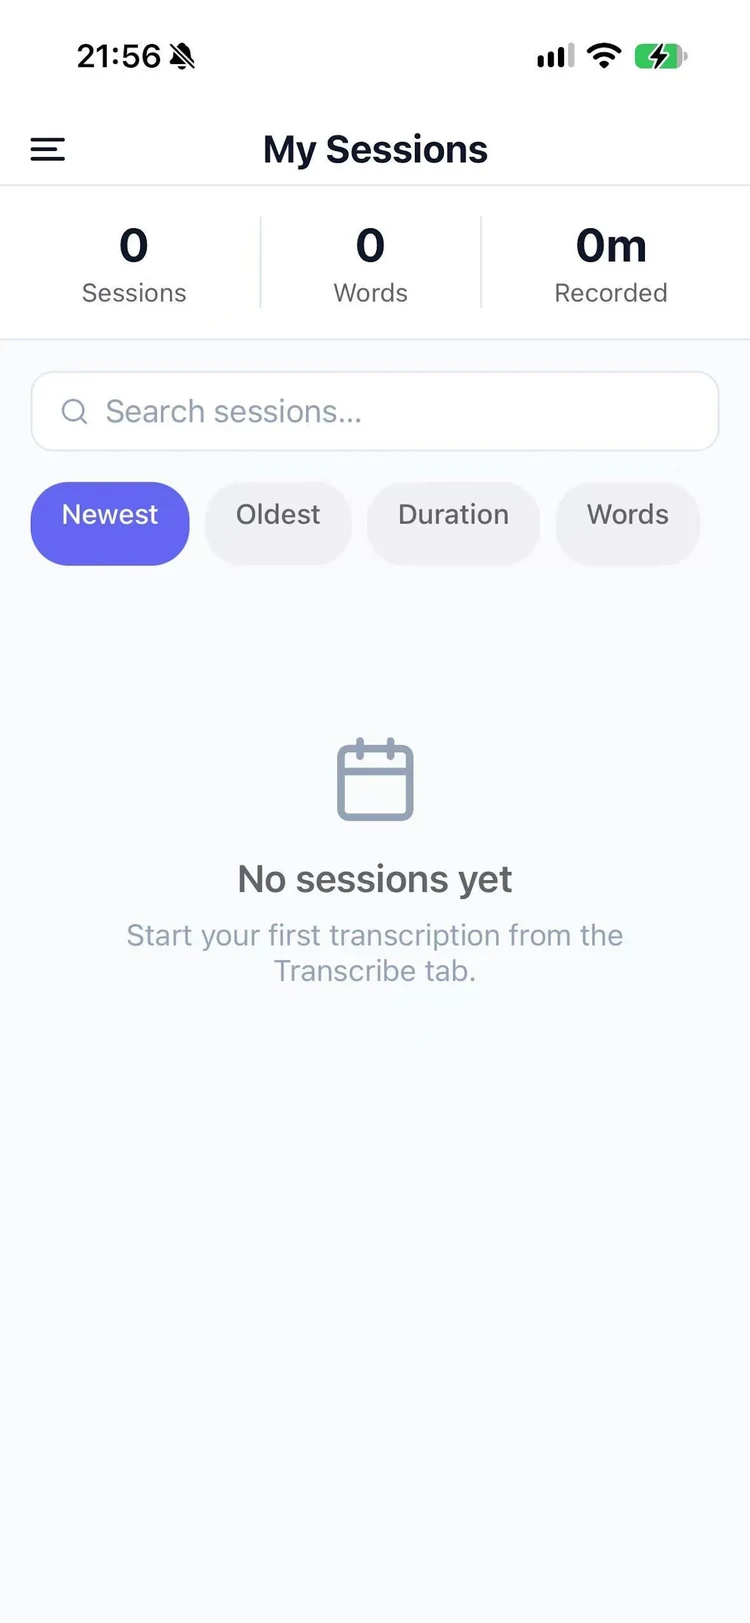
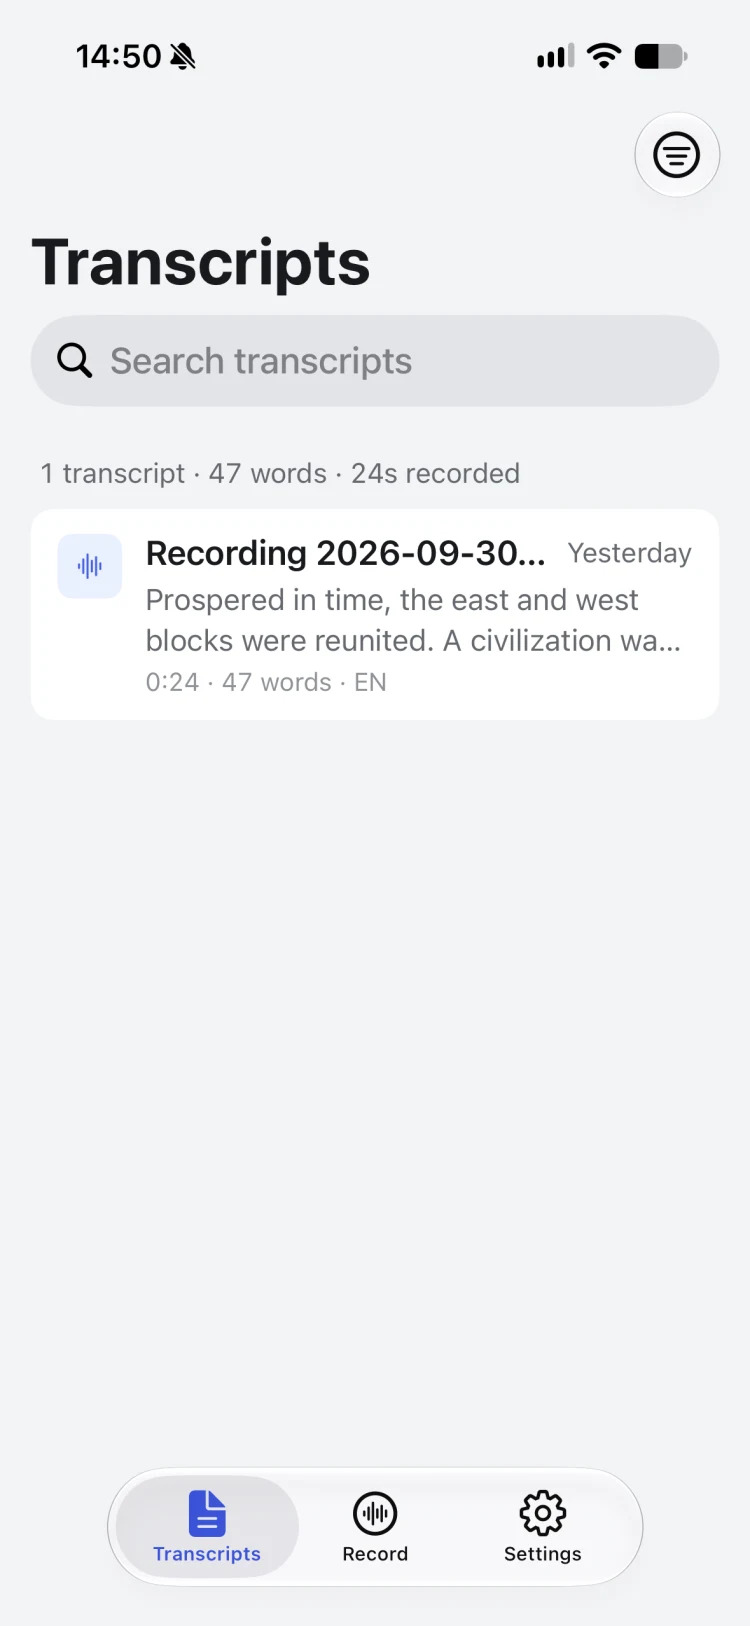
New Mac and iPhone screenshots; sync, live-recording speakers, meetings and models
- Mac: new screenshots for the hero/AI Summary (bilingual summary), Speakers,
  YouTube Summary and Voice Memos; new feature row for Apply Full Speaker
  Diarization on live recordings; new "Fits into your day" cards (meeting
  detection, menu bar & Shortcuts; Settings > Models). Mac images are now 1600 px
  WebP at their natural aspect, with real width/height (no layout shift).
- iPhone: six new device screenshots (Record, Transcripts, Sync with Mac,
  Settings, Plans x2) in two rows; new "Sync with your Mac" feature.
- Content: transcripts now sync through the user's own cloud drive (FAQ and
  Mac-vs-iPhone table were saying they don't); bilingual summaries and GPU speaker
  identification; meeting detection row in the comparison.
- Mac App Store button links to the live listing (id6767550920); iPhone stays
  "Coming soon" until that version is live.

diff --git a/src/content/site.ts b/src/content/site.ts
@@ -12,7 +12,7 @@ export const site = {
   /** Paste the App Store URLs here once they are live, e.g. https://apps.apple.com/app/id1234567890.
    *  Empty string = the button renders as a disabled "Coming soon" button instead of a dead link. */
   links: {
-    macAppStore: '',
+    macAppStore: 'https://apps.apple.com/app/henrik-transcribe/id6767550920',
     iosAppStore: '',
     /** Shown in the footer and FAQ. Leave empty to hide. */
     supportEmail: '',
@@ -41,17 +41,45 @@ export const macFeatures = {
     eyebrow: 'AI Summary & Talk to Transcript',
     title: 'Turn an hour of audio into a page you can act on.',
     body: 'A local AI assistant writes the summary, pulls out key points, action items and chapters, and answers follow-up questions with clickable source timestamps. Choose a length and a style — meeting, podcast, interview or lecture.',
-    points: ['Short, Standard or Detailed summaries', 'Answers cite the exact moment in the recording', 'Runs on your Mac — nothing is sent to the cloud'],
+    points: [
+      'Short, Standard or Detailed summaries',
+      'Summaries in the recording’s own language, with an English translation one click away',
+      'Answers cite the exact moment in the recording',
+      'Runs on your Mac — nothing is sent to the cloud',
+    ],
     image: 'images/mac/summary.webp',
-    alt: 'Henrik Transcribe on Mac showing a transcript, an AI summary panel and a Talk to Transcript chat.',
+    width: 1600,
+    height: 857,
+    alt: 'Henrik Transcribe on Mac: a Swedish transcript with speaker labels, and an AI summary with Swedish and English (translated) tabs.',
   },
   speakers: {
     eyebrow: 'Speaker diarization',
     title: 'Know who said what.',
     body: 'Speakers are detected and labelled automatically, each turn is timestamped, and playback follows along word by word. Rename speakers, fix a line, and export the result.',
-    points: ['Colour-coded speaker turns with per-speaker summary', 'Synchronised audio playback, word or sentence level', 'Export as TXT, DOCX, PDF, Markdown, SRT or VTT'],
+    points: [
+      'Colour-coded speaker turns with per-speaker summary',
+      'Synchronised audio playback, word or sentence level',
+      'Speakers are identified on your Mac’s GPU, with a live progress bar and Cancel',
+      'Export as TXT, DOCX, PDF, Markdown, SRT or VTT',
+    ],
     image: 'images/mac/speakers.webp',
-    alt: 'A transcript with colour-coded speaker turns and a per-speaker summary panel.',
+    width: 1600,
+    height: 861,
+    alt: 'An uploaded file transcribed with colour-coded speaker turns, word-level audio sync and a Speaker Summary panel.',
+  },
+  liveDiarization: {
+    eyebrow: 'New · Speakers for live recordings',
+    title: 'Recorded it live? Add the speakers afterwards.',
+    body: 'Live transcription is instant; full speaker identification takes a closer listen. One click runs the full Speaker Diarization Engine on a live recording’s saved audio and opens the result as a new transcript — labelled by speaker, with the original left untouched.',
+    points: [
+      'Apply Full Speaker Diarization from any saved live recording',
+      'The result is a new session; your original transcript stays as it is',
+      'Summaries, Ask and export work on the result straight away',
+    ],
+    image: 'images/mac/live-diarization.webp',
+    width: 1600,
+    height: 858,
+    alt: 'A saved live recording with the Apply Full Speaker Diarization button, a tip explaining it, and an AI summary.',
   },
   youtube: {
     eyebrow: 'YouTube Summary',
@@ -59,7 +87,9 @@ export const macFeatures = {
     body: 'Drop in a YouTube link for a full transcript, an AI summary, auto-detected chapters, key insights and a Q&A assistant for the video — all processed locally.',
     points: ['Summary, Insights, Chapters, Transcript and Ask tabs', 'Also works with Vimeo, SVT Play, podcasts and RSS, or direct MP3/MP4 links', 'Downloads the audio and transcribes it offline'],
     image: 'images/mac/youtube-summary.webp',
-    alt: 'The YouTube Summary window with a list of summarised videos and a detailed summary.',
+    width: 1600,
+    height: 857,
+    alt: 'The YouTube Summary window with a list of summarised videos and a detailed meeting-style summary.',
   },
   voiceMemos: {
     eyebrow: 'New · Voice Memos',
@@ -72,6 +102,8 @@ export const macFeatures = {
       'Share with AirDrop, Mail or Messages; export M4A, WAV or the transcript',
     ],
     image: 'images/mac/voice-memos.webp',
+    width: 1600,
+    height: 889,
     alt: 'The Voice Memos window: a list of recordings, a waveform player with speed control, and Transcript, Summary, Insights and Ask tabs.',
   },
 }
@@ -130,10 +162,32 @@ export const workflows = [
   },
 ]
 
+export const everyday = [
+  {
+    title: 'Meetings, menu bar & Shortcuts',
+    body: 'When Zoom, Teams, FaceTime, Slack or a Google Meet tab starts using the microphone, a notification offers to record the call. Start and stop from the menu bar, and drive the app from Shortcuts, Raycast or Alfred with links.',
+    image: 'images/mac/settings.webp',
+    width: 1600,
+    height: 960,
+    alt: 'Settings: recording mode (microphone, system audio or both), meeting detection, and Show in Menu Bar with Shortcuts & Automation.',
+  },
+  {
+    title: 'Your models, your choice',
+    body: 'Pick the Whisper model that suits you — from Tiny to Large v3 Turbo — and the models for speaker identification and AI summaries. Download what you need, remove what you don’t; everything runs on your Mac.',
+    image: 'images/mac/models.webp',
+    width: 1600,
+    height: 1051,
+    alt: 'Settings › Models: Whisper models, the Whisper models for full speaker diarization with the engine status, and the local AI models.',
+  },
+]
+
 export const iphoneScreens = [
-  { image: 'images/iphone/transcribe.webp', alt: 'Transcribe screen on iPhone with Record, File and Web tabs.', caption: 'Record, File or Web' },
-  { image: 'images/iphone/sessions.webp', alt: 'My Sessions screen on iPhone listing saved transcripts.', caption: 'Every session, saved' },
-  { image: 'images/iphone/license.webp', alt: 'Plans screen on iPhone showing Monthly and Yearly options.', caption: 'Simple plans' },
+  { image: 'images/iphone/transcribe.webp', alt: 'Record screen on iPhone with Record, File and Web Link tabs and a Start Recording button.', caption: 'Record, File or Web Link' },
+  { image: 'images/iphone/sessions.webp', alt: 'Transcripts screen on iPhone with search and a saved recording.', caption: 'Every transcript, searchable' },
+  { image: 'images/iphone/sync.webp', alt: 'Settings › Sync with Mac on iPhone: iCloud Drive, Google Drive, Dropbox, OneDrive or another folder.', caption: 'Sync with your Mac' },
+  { image: 'images/iphone/settings.webp', alt: 'Settings on iPhone: appearance, language, microphone and the live transcription engine.', caption: 'Whisper or Apple Speech' },
+  { image: 'images/iphone/license.webp', alt: 'Plans on iPhone: the free plan and a Monthly plan with a 1-month free trial.', caption: 'Live recording is free' },
+  { image: 'images/iphone/plans.webp', alt: 'Plans on iPhone: Monthly, Yearly and a one-time Lifetime License.', caption: 'Monthly, Yearly or Lifetime' },
 ]
 
 export const iphoneFeatures = [
@@ -142,7 +196,8 @@ export const iphoneFeatures = [
   { title: 'Audio file transcription', body: 'Transcribe pre-recorded WAV files on-device.' },
   { title: 'Web link transcription', body: 'Paste a direct link to a WAV file; the app downloads and transcribes it.' },
   { title: '30+ languages', body: 'With an English-optimised model for extra accuracy.' },
-  { title: 'History & sharing', body: 'Transcripts save automatically with editable titles. Copy, or share via the iOS Share Sheet.' },
+  { title: 'History & sharing', body: 'Transcripts save automatically with editable titles. Search them, copy, or share via the iOS Share Sheet.' },
+  { title: 'Sync with your Mac', body: 'Keep iPhone and Mac transcripts in step through a folder in your own iCloud Drive, Google Drive, Dropbox or OneDrive — no account with us, no server of ours.' },
   { title: 'Light, Dark or Automatic', body: 'Follows your iPhone’s appearance, or pick one.' },
 ]
 
@@ -160,6 +215,8 @@ export const comparison: { feature: string; mac: boolean | string; iphone: boole
   { feature: 'SRT & VTT subtitle export', mac: true, iphone: false },
   { feature: 'Whisper model manager', mac: true, iphone: false },
   { feature: 'Session history, copy & share', mac: true, iphone: true },
+  { feature: 'Sync transcripts via your own cloud drive', mac: true, iphone: true },
+  { feature: 'Meeting detection, menu bar & Shortcuts', mac: true, iphone: false },
   { feature: '100% on-device processing', mac: true, iphone: true },
   { feature: 'Requires', mac: 'macOS 12+, Apple Silicon', iphone: 'iOS 16.4+, iPhone' },
 ]
@@ -222,7 +279,7 @@ export const faqs = [
   },
   {
     q: 'Do my transcripts sync between Mac and iPhone?',
-    a: 'Not currently. Each app keeps its own sessions on the device. Copy or share a transcript to move it between them.',
+    a: 'Yes, through a folder in your own cloud drive — iCloud Drive, Google Drive, Dropbox, OneDrive or any folder you choose. Pick the same folder in Settings on your Mac and your iPhone. Titles, text and favorites sync; audio stays on the device that recorded it. There is no account with us and no server of ours: your cloud drive’s own app moves the files.',
   },
   {
     q: 'Which languages are supported?',

diff --git a/src/sections/MacSection.tsx b/src/sections/MacSection.tsx
@@ -5,7 +5,7 @@ import { Section, SectionHeading } from '@/components/Section'
 import { Reveal } from '@/components/Reveal'
 import { Screenshot } from '@/components/Screenshot'
 import { cn } from '@/lib/utils'
-import { inputs, macFeatures, workflows } from '@/content/site'
+import { everyday, inputs, macFeatures, workflows } from '@/content/site'
 
 type Feature = (typeof macFeatures)[keyof typeof macFeatures]
 
@@ -25,7 +25,7 @@ function FeatureRow({ feature, reverse }: { feature: Feature; reverse?: boolean 
         </ul>
       </Reveal>
       <Reveal delay={0.08} className={cn('lg:col-span-7', reverse && 'lg:order-1')}>
-        <Screenshot src={feature.image} alt={feature.alt} width={1280} height={800} frame="mac" />
+        <Screenshot src={feature.image} alt={feature.alt} width={feature.width} height={feature.height} frame="mac" />
       </Reveal>
     </div>
   )
@@ -84,8 +84,28 @@ export function MacSection() {
       <div className="mt-20 space-y-24 md:mt-28 md:space-y-32">
         <FeatureRow feature={macFeatures.summary} />
         <FeatureRow feature={macFeatures.speakers} reverse />
-        <FeatureRow feature={macFeatures.youtube} />
-        <FeatureRow feature={macFeatures.voiceMemos} reverse />
+        <FeatureRow feature={macFeatures.liveDiarization} />
+        <FeatureRow feature={macFeatures.youtube} reverse />
+        <FeatureRow feature={macFeatures.voiceMemos} />
+      </div>
+
+      <div className="mt-24 md:mt-32">
+        <Reveal><h3 className="mb-10 text-center text-3xl font-semibold sm:text-4xl">Fits into your day.</h3></Reveal>
+        <div className="grid gap-6 sm:grid-cols-2">
+          {everyday.map((e, i) => (
+            <Reveal key={e.title} delay={(i % 2) * 0.08}>
+              <article className="flex h-full flex-col overflow-hidden rounded-3xl border border-line bg-surface">
+                <div className="p-6 sm:p-7">
+                  <h4 className="text-xl font-semibold tracking-tight">{e.title}</h4>
+                  <p className="mt-2 text-muted">{e.body}</p>
+                </div>
+                <div className="mt-auto p-3 pt-0 sm:p-4 sm:pt-0">
+                  <Screenshot src={e.image} alt={e.alt} width={e.width} height={e.height} frame="mac" className="shadow-none" />
+                </div>
+              </article>
+            </Reveal>
+          ))}
+        </div>
       </div>
 
       <div className="mt-24 md:mt-32">

diff --git a/src/sections/IphoneSection.tsx b/src/sections/IphoneSection.tsx
@@ -11,15 +11,15 @@ export function IphoneSection() {
         <SectionHeading
           eyebrow="On iPhone"
           title="Transcribe on the go — completely offline."
-          body="Record live speech and watch it turn into text on your iPhone. Free forever for live recording; a license adds audio files and web links."
+          body="Record live speech and watch it turn into text on your iPhone, then keep it in step with your Mac. Free forever for live recording; a license adds audio files and web links."
         />
 
         <div className="mt-16 grid items-start gap-12 lg:grid-cols-12 lg:gap-16">
-          <div className="grid grid-cols-3 items-start gap-3 sm:gap-6 lg:col-span-7">
+          <div className="grid grid-cols-3 items-start gap-x-3 gap-y-10 sm:gap-x-6 sm:gap-y-14 lg:col-span-7">
             {iphoneScreens.map((s, i) => (
-              <Reveal key={s.image} delay={i * 0.08} className={i === 1 ? 'mt-8 sm:mt-14' : ''}>
+              <Reveal key={s.image} delay={(i % 3) * 0.08} className={i % 3 === 1 ? 'mt-8 sm:mt-14' : ''}>
                 <figure>
-                  <Screenshot src={s.image} alt={s.alt} width={750} height={1623} frame="phone" />
+                  <Screenshot src={s.image} alt={s.alt} width={750} height={1626} frame="phone" />
                   <figcaption className="mt-4 text-center text-xs text-muted sm:text-sm">{s.caption}</figcaption>
                 </figure>
               </Reveal>

diff --git a/src/sections/Hero.tsx b/src/sections/Hero.tsx
@@ -32,18 +32,18 @@ export function Hero() {
         <Reveal delay={0.1} className="relative mx-auto mt-14 max-w-5xl md:mt-20">
           <Screenshot
             src="images/mac/summary.webp"
-            alt="Henrik Transcribe on Mac: a transcript with an AI summary and a Talk to Transcript chat."
-            width={1280}
-            height={800}
+            alt="Henrik Transcribe on Mac: a transcript with speaker labels and a bilingual AI summary."
+            width={1600}
+            height={857}
             frame="mac"
             priority
           />
           <div className="absolute -bottom-10 right-2 w-[28%] max-w-[210px] sm:right-6 md:-bottom-14 md:right-[-2%]">
             <Screenshot
               src="images/iphone/transcribe.webp"
-              alt="Henrik Transcribe on iPhone with Record, File and Web tabs."
+              alt="Henrik Transcribe on iPhone, ready to record, with Record, File and Web Link tabs."
               width={750}
-              height={1623}
+              height={1626}
               frame="phone"
               priority
             />

diff --git a/README.md b/README.md
@@ -35,8 +35,10 @@ Optionally add `poster: 'images/videos/<name>.webp'` (file in `public/images/vid
 
 ### Replacing screenshots
 Files live in `public/images/{mac,iphone,common}` and are referenced from `src/content/site.ts` and the hero.
-Keep the file names and the site updates itself. Sizes used: Mac 1280×800 (WebP), iPhone 750×1623 (WebP).
-Convert with any tool that writes WebP, e.g. `cwebp -q 88 in.png -o out.webp`.
+Keep the file names and the site updates itself. Mac screenshots are WebP, 1600 px wide at their
+natural height; put each one's `width`/`height` next to its `image` in `site.ts` (no layout shift).
+iPhone screenshots are 750×1626 WebP.
+Convert with any tool that writes WebP, e.g. `cwebp -q 88 -resize 1600 0 in.png -o out.webp`.
 
 ## Deploy to GitHub Pages
 
@@ -52,8 +54,8 @@ Convert with any tool that writes WebP, e.g. `cwebp -q 88 in.png -o out.webp`.
 
 ## Before you go public — checklist
 
-- [ ] Paste the real App Store URLs into `src/content/site.ts`, and swap the placeholder buttons for Apple's official badges (Apple's marketing resources — badge artwork has usage rules).
-- [ ] Re-capture the **iPhone** screenshots on a real device with real content (populated transcript, populated Sessions list). The bundled ones are early empty-state captures.
+- [ ] Paste the real App Store URLs into `src/content/site.ts` (Mac done 2026-10; iPhone once it is live), and swap the placeholder buttons for Apple's official badges (Apple's marketing resources — badge artwork has usage rules).
+- [x] Re-capture the **iPhone** screenshots on a real device (2026-10).
 - [ ] Set `site.links.supportEmail`.
 - [ ] Review `src/pages/Privacy.tsx` against your current policy before using `…/privacy/` as the App Store Privacy Policy URL.
 - [ ] Add YouTube videos when ready.
